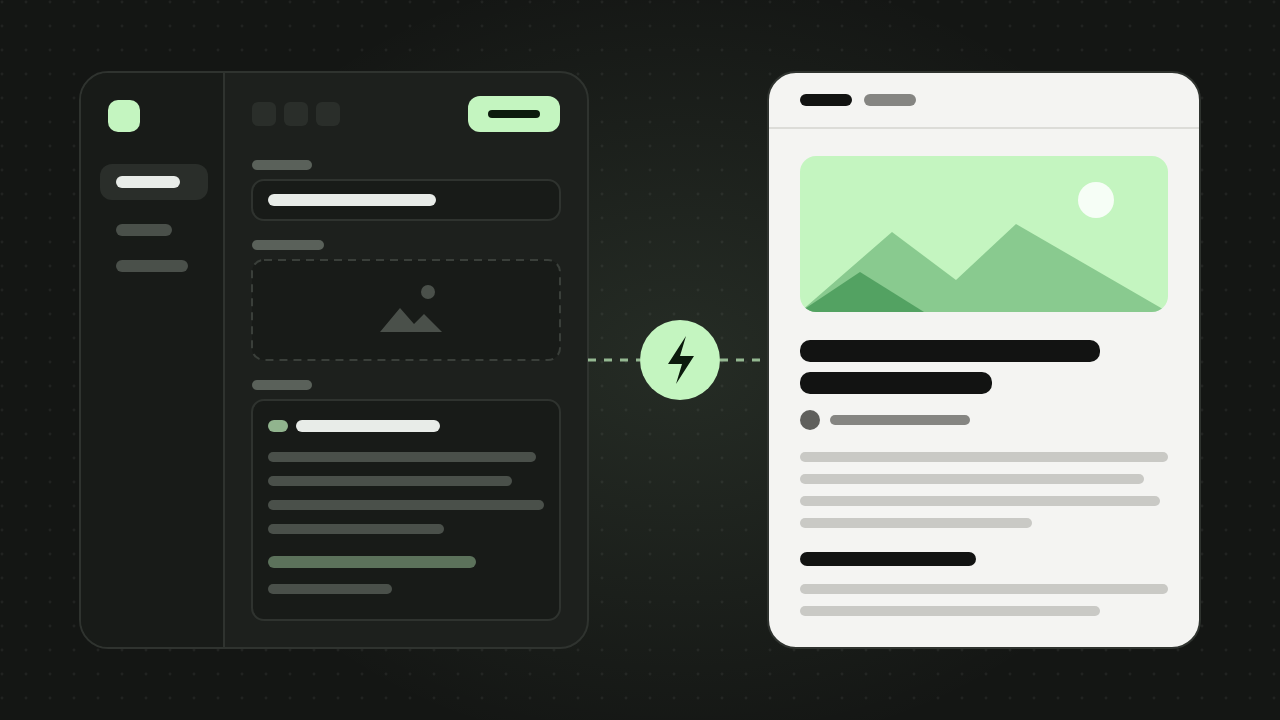
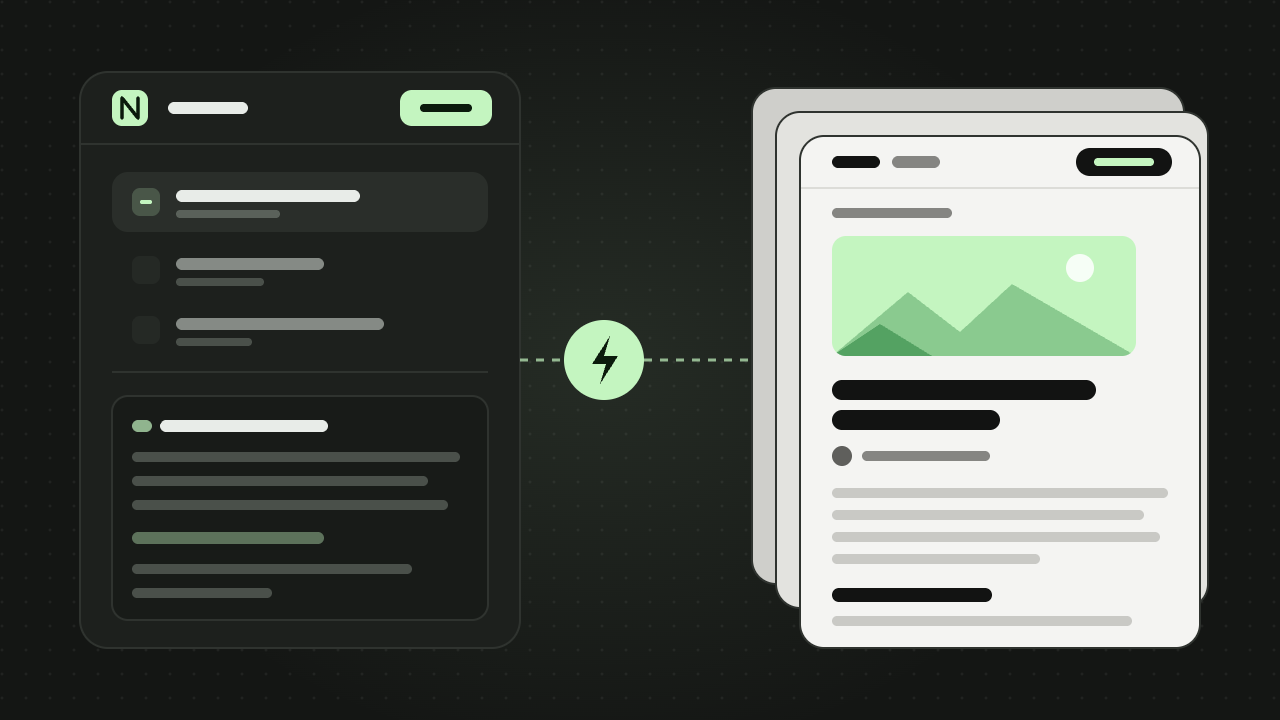
fix(svg): update cover image title and adjust layout for better clarity

diff --git a/next.config.ts b/next.config.ts
@@ -7,10 +7,11 @@ import {
 } from "./scripts/locale-routes.ts";
 
 /**
- * The address Web Studio shows the dev server at: Next.js refuses its dev
- * resources to any origin it was not told about.
+ * The host Web Studio shows the dev server under (each preview is a
+ * subdomain of it): Next.js refuses its dev resources to any origin it was
+ * not told about.
  */
-const previewHosts = process.env.__VITE_ADDITIONAL_SERVER_ALLOWED_HOSTS;
+const previewHost = process.env.LAZINESS_PREVIEW_HOST;
 
 /**
  * A static site: `next build` writes every page as HTML into out/, as flat
@@ -24,7 +25,7 @@ const config: NextConfig = {
 	// No server to resize pictures on: they are served as they were uploaded.
 	images: { unoptimized: true },
 	reactCompiler: true,
-	allowedDevOrigins: previewHosts ? [`*${previewHosts}`] : [],
+	allowedDevOrigins: previewHost ? [`*.${previewHost}`] : [],
 };
 
 export default function nextConfig(phase: string) {
